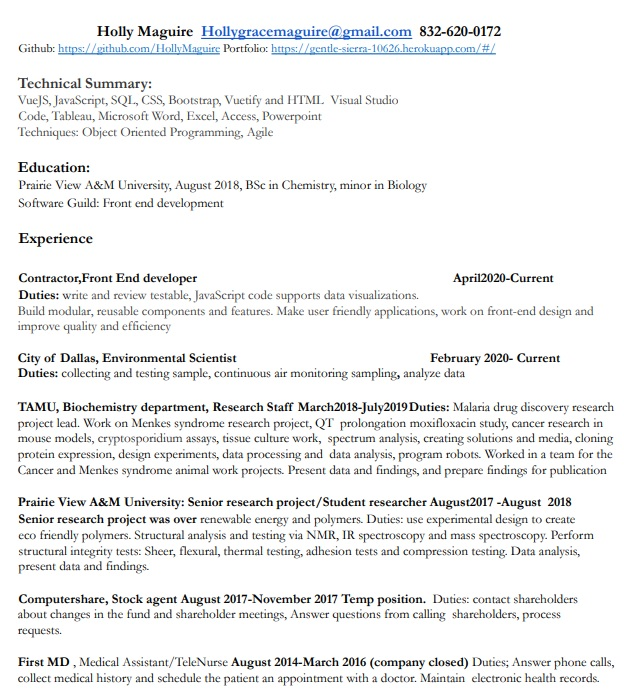
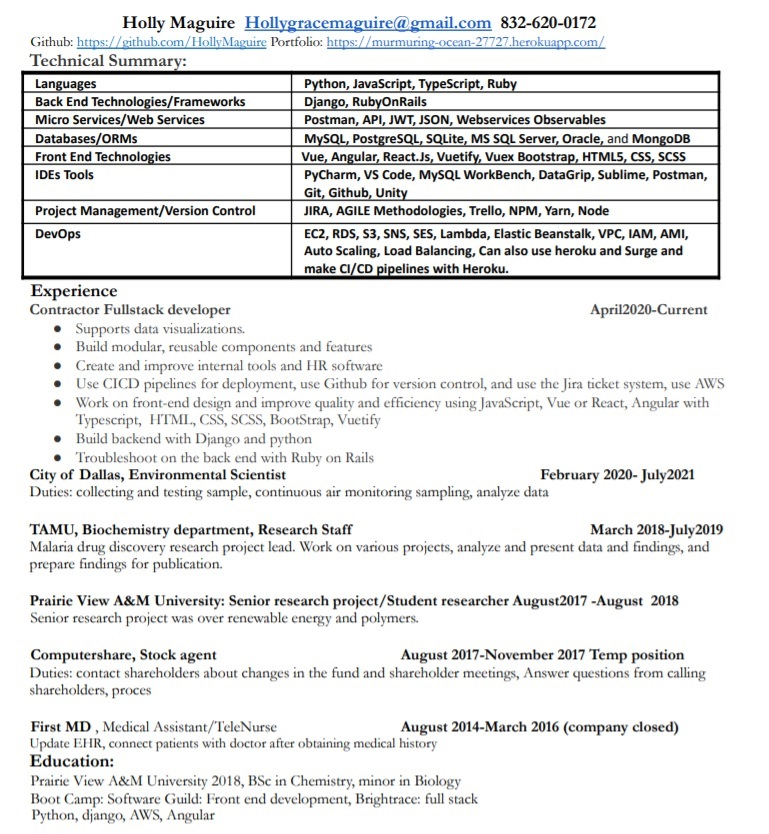
updated site

diff --git a/src/components/Welcome.vue b/src/components/Welcome.vue
@@ -13,7 +13,6 @@
           height="100vh"
         />
       </v-col>
-
       <v-col
         class="align-content-space-between layout wrap"
         cols="12"
@@ -34,7 +33,7 @@
           >
             <base-text>
             I linked a little projects page with little games and tools in the button below. I also have <a href="https://github.com/HollyMaguire"> <strong> My Git Hub link</strong></a>
-            Included. On Github I have projects in JavaScript, Python and Ruby. I did a coding bootcamp and I contunue to learn on my own.I know JavaScript, Python, HTML, CSS and Vue and I am learning Ruby on Rails currently. I have done some contract work with a backend engineer, doing the front-end parts of applications to make internal tools.
+            Included. On Github I have public projects in JavaScript, Python and Ruby. I did a coding bootcamp and I contunue to learn on my own.I know JavaScript with Vue and React, Typescript with Angular, Python with Djago and Flask, Ruby/ Ruby on Rails, HTML, CSS.  I have done some contract work, most working with a backend engineer, doing the front-end parts of applications to make internal tools. I have also done some fullstack contracts as well.
             </base-text>
             <base-btn class="mt-4">
                <a href="https://gentle-sierra-10626.herokuapp.com/#/Memory">See Projects</a>

diff --git a/src/components/AboutMe.vue b/src/components/AboutMe.vue
@@ -28,7 +28,8 @@
         </base-subheading>
 
         <base-text class="mb-5">
-          I am most comfortable with JavaScript using Vue as a framework. I can use HTML (which I think pretty much anyone can), Css, Vuetify, Bootstrap, BootstrapVue. I also know Python, and am learning Ruby on Rails currently. I have done a react and node class, as well as a Java with Springboot class. However these I did not list at the top of the site as I am not as comfortable with them but I could refresh them.
+          I am most comfortable with JavaScript with React or Vue. I am also good with Angular and typescript, I can use HTML (which I think pretty much anyone can), Css, Vuetify, Bootstrap, BootstrapVue. I also know Python with Django, and Ruby on Rails. I have used AWS in the past as well as Heroku and Docker. My experience using AWS has been with EC2, RDS, S3 buckets, AWS Lambda function, SNS Topics, Route 53, RDS, SES, SNS, load balancing and auto scaling. As well as Object Storage Options and Monitoring Services.
+
         </base-text>
       </v-col>
 

diff --git a/src/components/Services.vue b/src/components/Services.vue
@@ -38,6 +38,7 @@
             <base-text class="mb-5">
 I was originally a Chemist, with several publications to my name and I programmed robots in my lab. This is where I first fell in love with programming. I have a lot of analytical skills from my time in research, it also honed skills for problem solving and critical thinking.
 I was the project lead for a Malaria drug discovery project which allowed me to develop leadership skills. I gained experience working in teams from animal work project, all animal work was done closely with a team. I also have experience working independently from a cloning and gene-splicing project, and from my time doing polymer research.
+In more recient years I have been switching to software and doing contract work, first with front end projects then transistioned into fullstack contracts.
 
             </base-text>
           </v-col>
